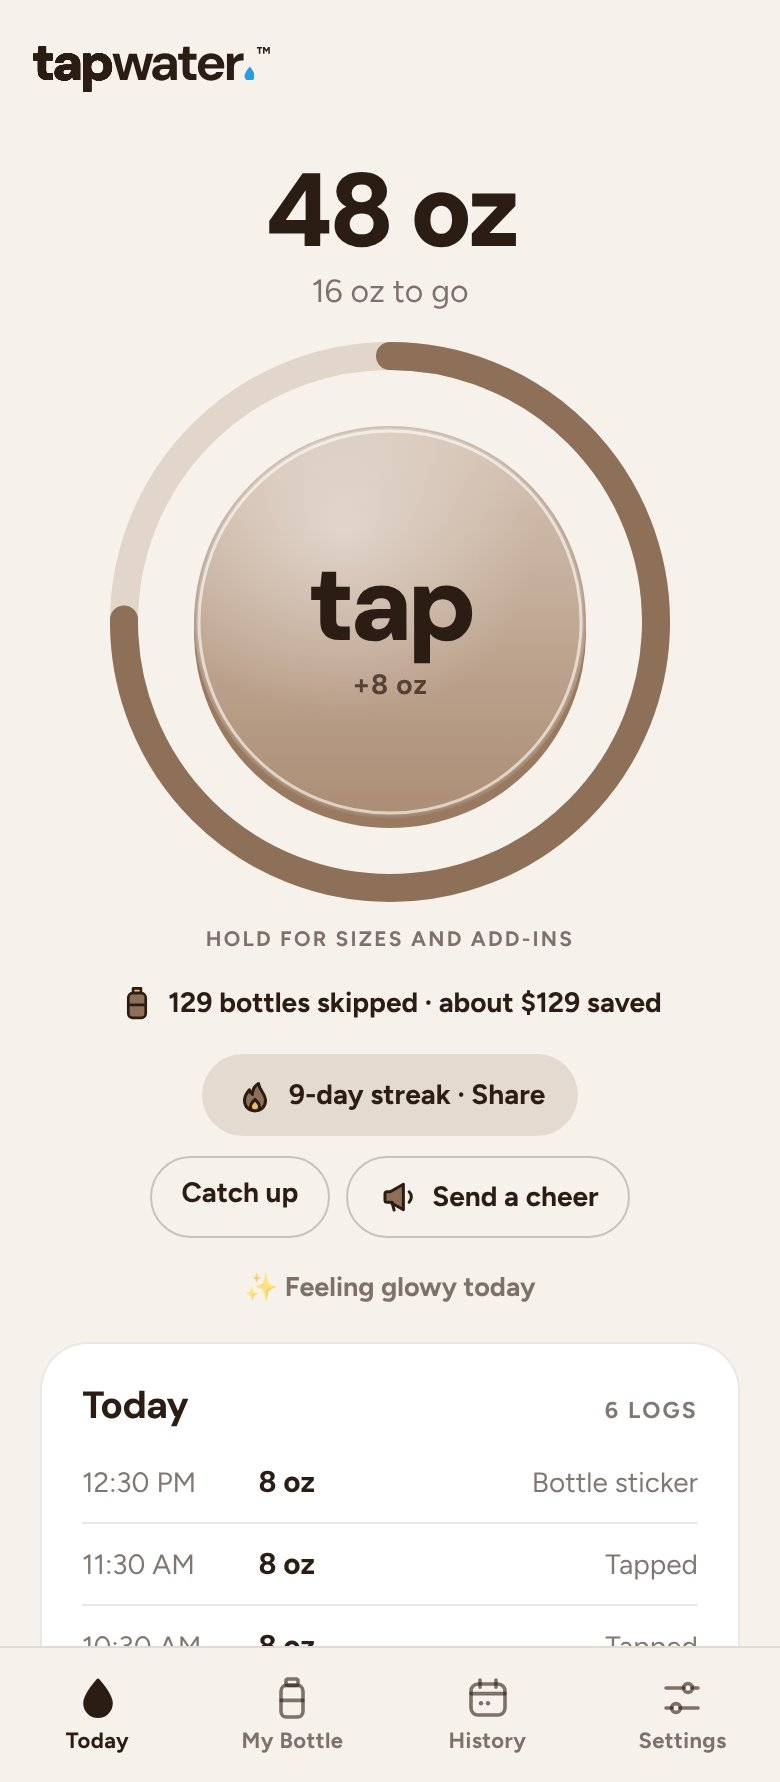
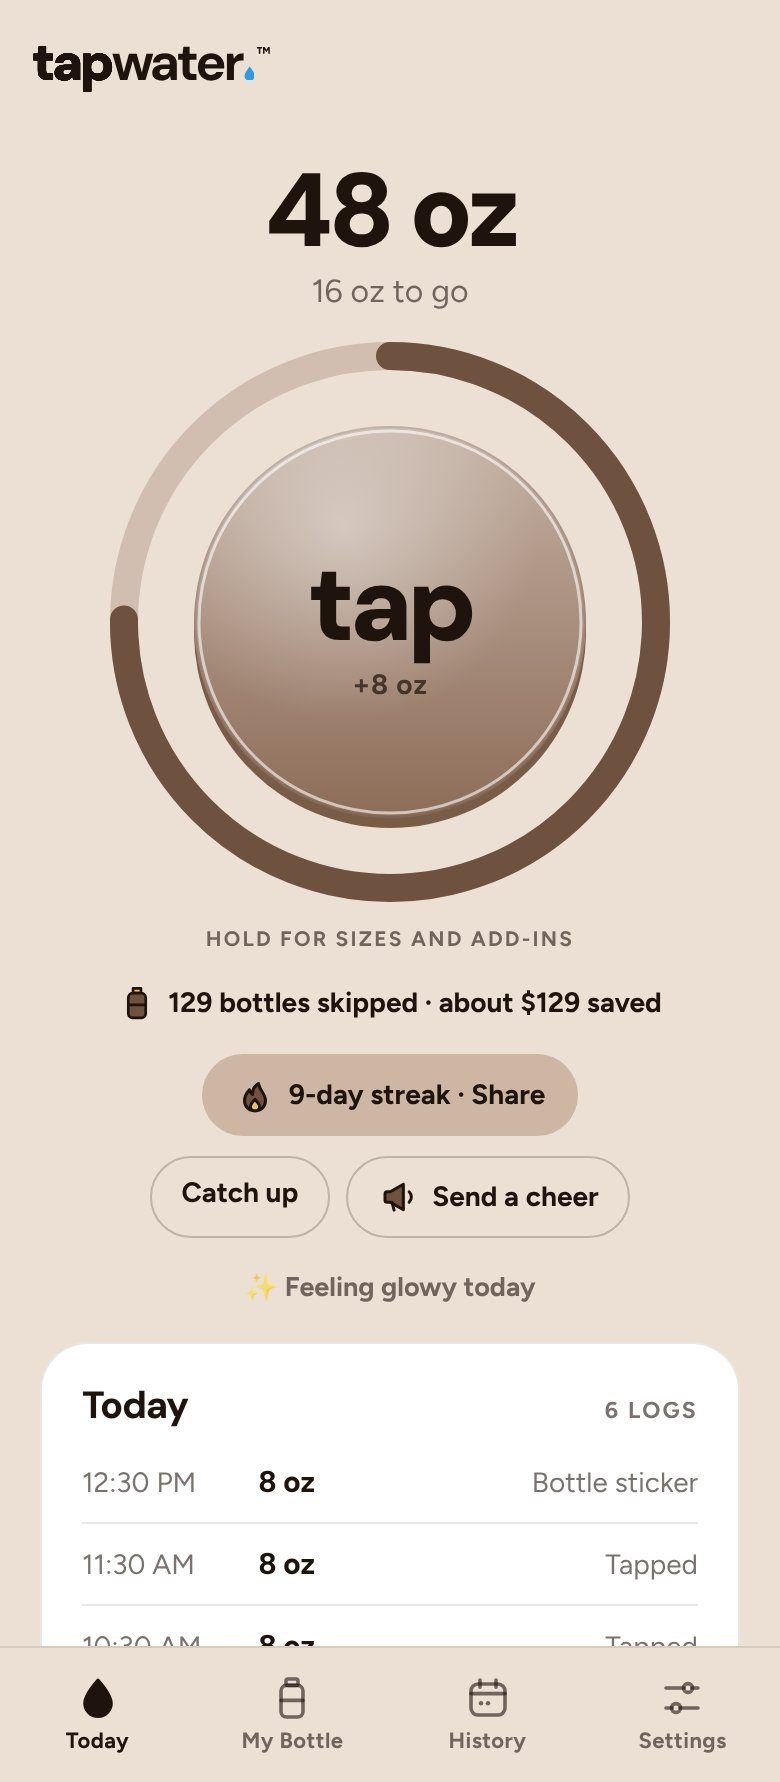
Draft: Cold Brew pictures and colors match the app's deeper brown
Claude-Session: https://claude.ai/code/session_019u9tQgjzi7DiwUbSquqghU

diff --git a/site.css b/site.css
@@ -14,7 +14,7 @@
 :root[data-cw="lavender-haze"]{--main:#CDBDF2;--soft:#F1ECFC;--deep:#3D2E7A;--shade:#A996E3;--pop:#FFD1E1;--nbg:#120E22;--nsurf:#211A3A;--nink:#F1ECFC}
 :root[data-cw="oat-milk"]{--main:#E3CDB2;--soft:#F8F2EA;--deep:#4A3022;--shade:#C9A988;--pop:#F4C9BA;--nbg:#1A130E;--nsurf:#2A2019;--nink:#F8F2EA}
 :root[data-cw="peach-fizz"]{--main:#FFC98F;--soft:#FFF1E2;--deep:#6A3510;--shade:#F0A35E;--pop:#FFF3B0;--nbg:#1E120A;--nsurf:#2F1F14;--nink:#FFF1E2}
-:root[data-cw="cold-brew"]{--main:#9A7862;--soft:#F2ECE6;--deep:#2B1C14;--shade:#8E6F57;--pop:#E8C27E;--nbg:#140E0B;--nsurf:#231A15;--nink:#F2ECE6}
+:root[data-cw="cold-brew"]{--main:#9A7862;--soft:#DCC8B6;--deep:#1E130D;--shade:#6E523F;--pop:#E8C27E;--nbg:#140E0B;--nsurf:#231A15;--nink:#EADFD5}
 :root[data-cw="club-soda"]{--main:#A9BACB;--soft:#EAEFF4;--deep:#1C2A38;--shade:#7D91A6;--pop:#F2D59A;--nbg:#0D1218;--nsurf:#19222C;--nink:#EAEFF4}
 @media (prefers-color-scheme:dark){
   :root{--tapblue:#5CC8FF;--bg:var(--nbg);--surface:var(--nsurf);--ink:var(--nink);--on-ink:var(--deep);color-scheme:dark}
